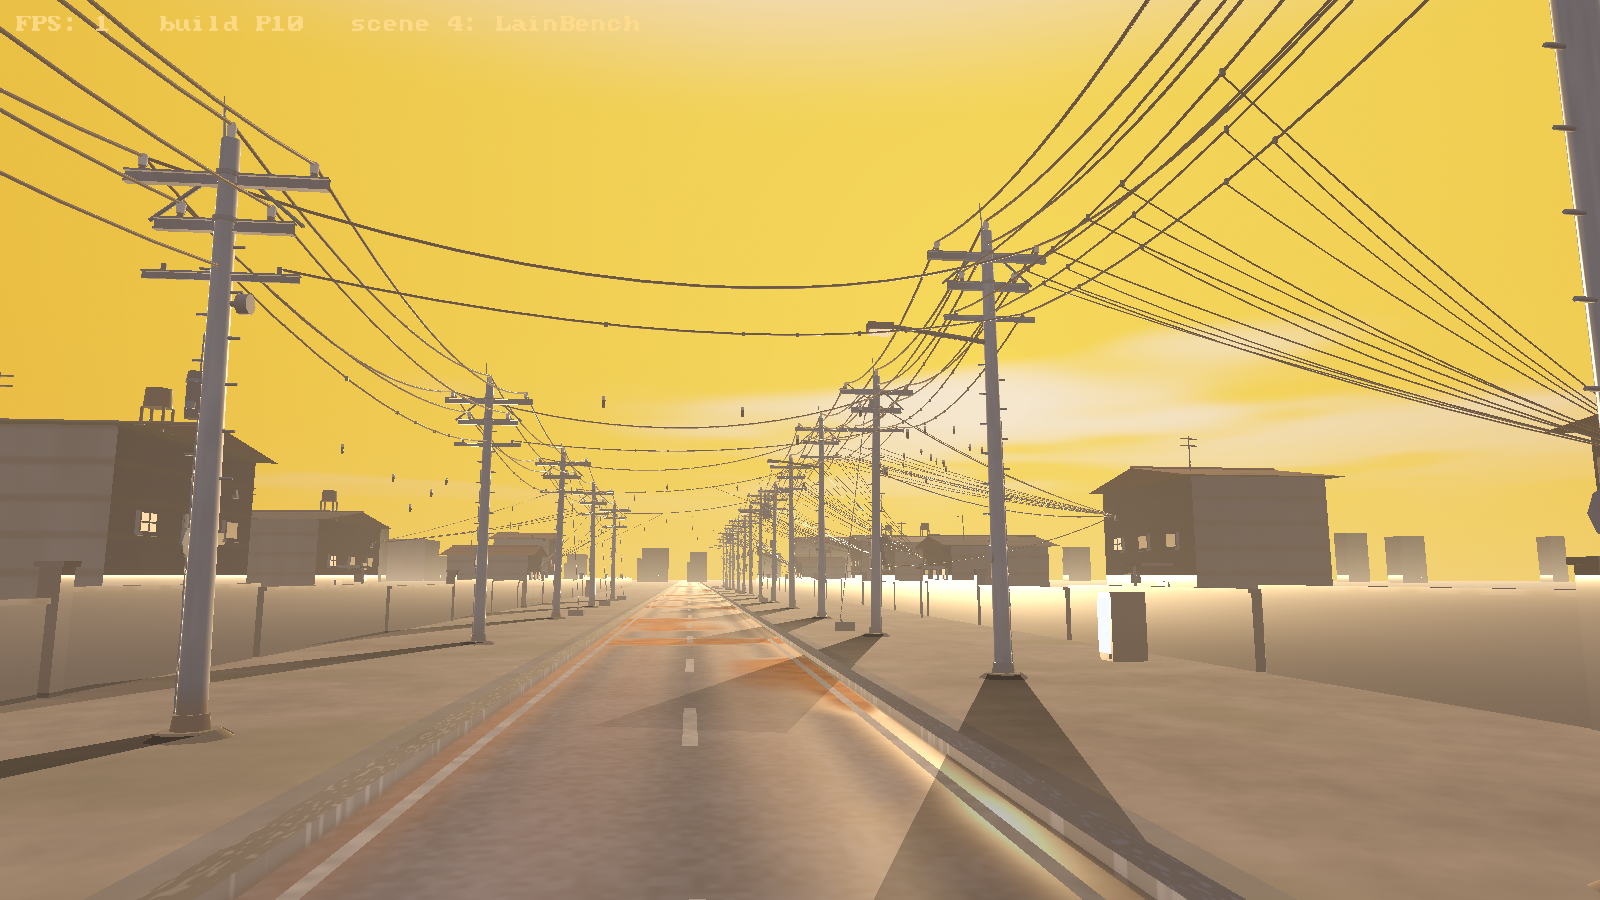
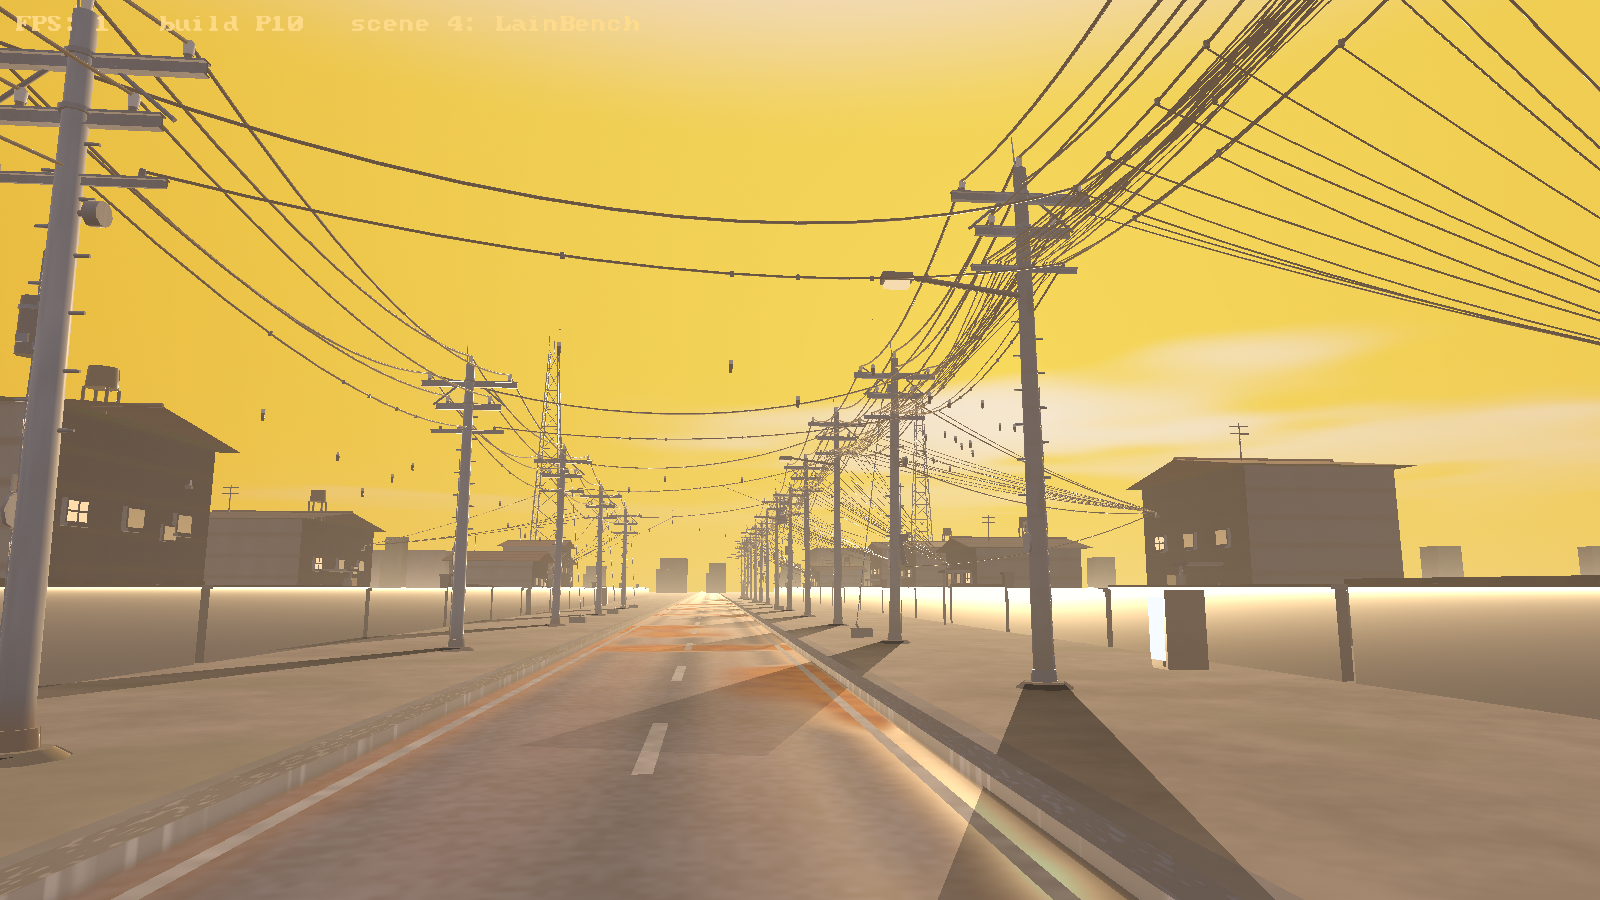
BUILD-P12: match the reference — concrete shafts, a real cable web, slack coils
The reference photograph is a worm's-eye shot of a Japanese utility pole, and
almost everything in it was missing. The shaft is weathered precast concrete,
not the hot-dip steel of build P9, so line A is now concrete with a new material
(vertical water staining, form-board lifts, spalled aggregate, grime up the
foot) and line B keeps the steel, which is what a real street has.

The web is the actual subject: sixteen thin slack telecom drops and cross-connects
per bay, strung between the same two poles at a dozen heights and not in a
plane, where before there were six neat distribution conductors that read as a
diagram. Added the flat wound slack coil and the circular service bight, both
terminated to the shaft or a bracket — a coil whose cable simply stops is the
same floating-cylinder mistake as the unterminated stub in P10.

The camera now aims at the top of the pole rather than the middle of the shaft,
and two lattice cell masts stand behind the line for scale. The sky is untouched:
the reference is clear blue afternoon, but the amber dusk atmosphere is this
scene's identity and the ask was for the wires and the upper pole.

Clipping 0.91%, pure black 0.00%, detail grad-rms up from 0.073 to 0.076.

🤖 Generated with Codebuff

diff --git a/README.md b/README.md
@@ -11,7 +11,7 @@ It ships **one** executable that contains **all four** scenes — no second bina
 | **ElectroBench** (the OG) | OpenGL 2.1 / GLSL 1.2, fixed-function pipeline | **110 UZIs** on a power-trowelled concrete floor under a generated dusk sky, lit by a warm sun, opened by a three-act **flyover camera** (approach, runway pass down the array, pull back) |
 | **TideBench** (scene 2) | OpenGL 3.3 core, pixel-shader workloads | An ocean under volumetric clouds (3DMark2001 SE "Nature" recreation) |
 | **PoolBench** (scene 3) | OpenGL 3.3 core, analytic shaders | A white-and-red checkerboard-sky pool room lit by a visible luminous ceiling panel (with its own reflection lying down the water), grouted tiles, projected caustics and two waves of falling, splashing teapots (18 total) |
-| **LainBench** (scene 4) | OpenGL 3.3 core, analytic shaders | A Lain-style power-line corridor at amber dusk under a **physically-based atmosphere** (Rayleigh + Mie, limb-darkened sun disc, wind-blown cumulus): 21 galvanized STEEL utility poles (step bolts, number plates, guy wires into buried anchors, cut-out fuses, transformers), six tiers of sagging catenary wire per bay tied insulator-top to insulator-top and down to house eave brackets, alpha-blended swinging shadows, a **damp asphalt road with cast concrete kerbs that mirrors the sunset**, suburban houses with lit windows, a far treeline. 4x MSAA |
+| **LainBench** (scene 4) | OpenGL 3.3 core, analytic shaders | A utility corridor at amber dusk under a **physically-based atmosphere** (Rayleigh + Mie, limb-darkened sun disc, wind-blown cumulus): weathered **concrete** pole shafts carrying the hardware the reference photograph shows — three tiers of pin insulators, transformer, cut-out fuses, step bolts, guy wires into buried anchors — wrapped in a **dense web of 16 thin slack telecom cables per bay** plus **hanging slack coils and service loops**, two lattice cell masts for scale, a **damp asphalt road with cast concrete kerbs that mirrors the sunset**, houses with lit windows. 4x MSAA |
 
 
 
@@ -43,11 +43,11 @@ The PoolBench pool room — an infinite white-and-red checkerboard sky mirrored 
 
 ![PoolBench in motion: teapot splash crowns, droplet streaks and ripple rings propagating across the checkerboard-mirrored water](docs/screenshots/pool_splash.gif)
 
-The LainBench power-line corridor — an amber dusk under a real atmosphere (Rayleigh sky, a tight limb-darkened sun disc sitting on the haze band, wind-blown cumulus with sunward silver linings), two lines of steel utility poles marching to the horizon, cast concrete kerbs and a damp road mirroring the sunset, and a wall of sagging wires over the auto-dolly camera:
+The LainBench power-line corridor — an amber dusk under a real atmosphere (Rayleigh sky, a tight limb-darkened sun disc sitting on the haze band, wind-blown cumulus with sunward silver linings). The camera aims at the **top** of the pole, because that is the subject: concrete shafts, three tiers of pin insulators, transformers and cut-outs, a **dense web of thin slack telecom cable** strung between the same two poles at a dozen heights, coils of spare cable hung off the brackets, and cell masts standing behind the line. Below it, cast concrete kerbs and a damp road mirroring the sunset:
 
 ![ElectroBench LainBench scene: steel utility poles and catenary wires against an amber dusk sky](docs/screenshots/lain_lines.png)
 
-**In motion** — the auto-dolly walking the corridor (four positions down the run): galvanised shafts, guy wires pulling into their anchor blocks, and the telecom bundles peeling off toward the eaves:
+**In motion** — the auto-dolly walking the corridor (four positions down the run): the cable web sweeping overhead pole after pole, slack coils swinging past, guy wires pulling into their anchor blocks, and the telecom bundles peeling off toward the eaves:
 
 ![LainBench in motion: steel poles, guy wires and catenary spans over the dolly camera](docs/screenshots/lain_lines.gif)
 

diff --git a/REFERENCES.md b/REFERENCES.md
@@ -179,6 +179,38 @@ Realism takeaways applied:
   glazing bars over them. Emissive geometry is only believable if the frame behind it still exists —
   the bars and the sill are what stop a lit pane reading as a sticker.
 
+## BUILD-P12: matching a reference photograph (scene 4)
+
+The reference is a street-level worm's-eye shot of a Japanese utility pole. What
+was taken from it — and what was deliberately left alone:
+
+TAKEN:
+- **The shaft is CONCRETE, not timber and not steel.** Build P9 rebuilt the poles
+  as galvanized steel; the reference is unmistakably a weathered precast concrete
+  shaft. Line A is now concrete and line B stays steel, which is what a real
+  street has and what stops fifteen identical shafts reading as one repeated
+  prop. Concrete only reads as concrete if it is DIRECTIONAL: vertical water
+  staining running down from every bracket, horizontal form-board lifts from
+  the mould, spalled patches showing darker aggregate, and a grime line washed
+  up the first two metres.
+- **The web, not the conductors.** Six neat distribution conductors read as a
+  power line DIAGRAM. What fills the corners of the reference frame is sixteen
+  thin black telecom drops and cross-connects strung between the same two poles
+  at different heights, slack, and not in a plane. Sixteen per bay, deterministic
+  so the benchmark stays comparable, each one tube.
+- **Slack cable.** The flat wound helix hung off a bracket, and the big circular
+  bight at a drop point, are the two most recognisable objects on a real pole and
+  cost nothing per pixel. Both are terminated — a coil whose cable simply stops is
+  the same "floating cylinder" mistake as the unterminated stub from build P10.
+- **The aim point moved UP.** Aiming at 5.5 m framed the least interesting three
+  metres of the shaft. The subject of the shot is the top of the pole.
+- **Something tall and thin in the far distance.** Two lattice cell masts. A
+  street with no vertical beyond the pole line has no scale.
+
+LEFT ALONE: the sky. The reference is a clear blue afternoon; this scene's amber
+dusk atmosphere was established in build P10 and the user asked for the wires and
+the upper pole, explicitly not the sky.
+
 ## BUILD-P11: scene 1 gets a place to stand in, and a camera that moves
 
 Realism takeaways applied — the failures here were *structural*, not shading:
